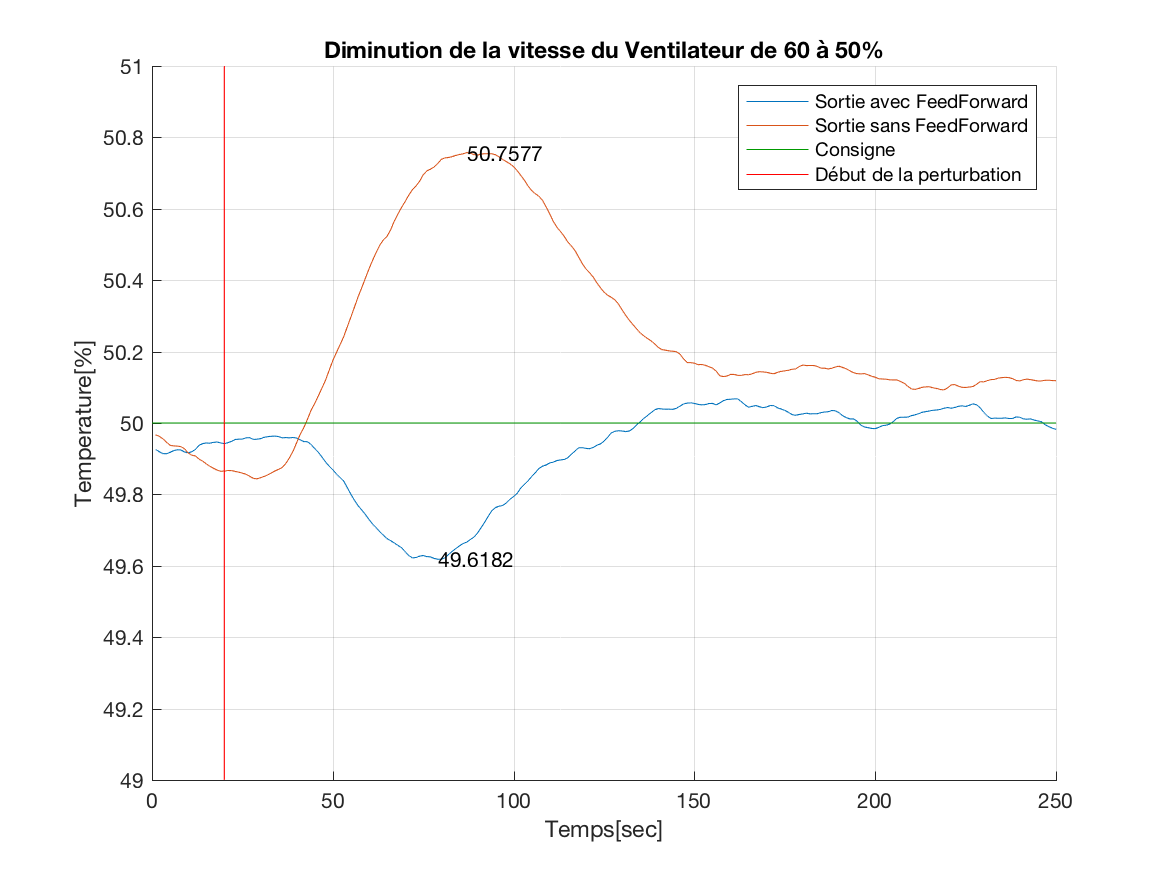
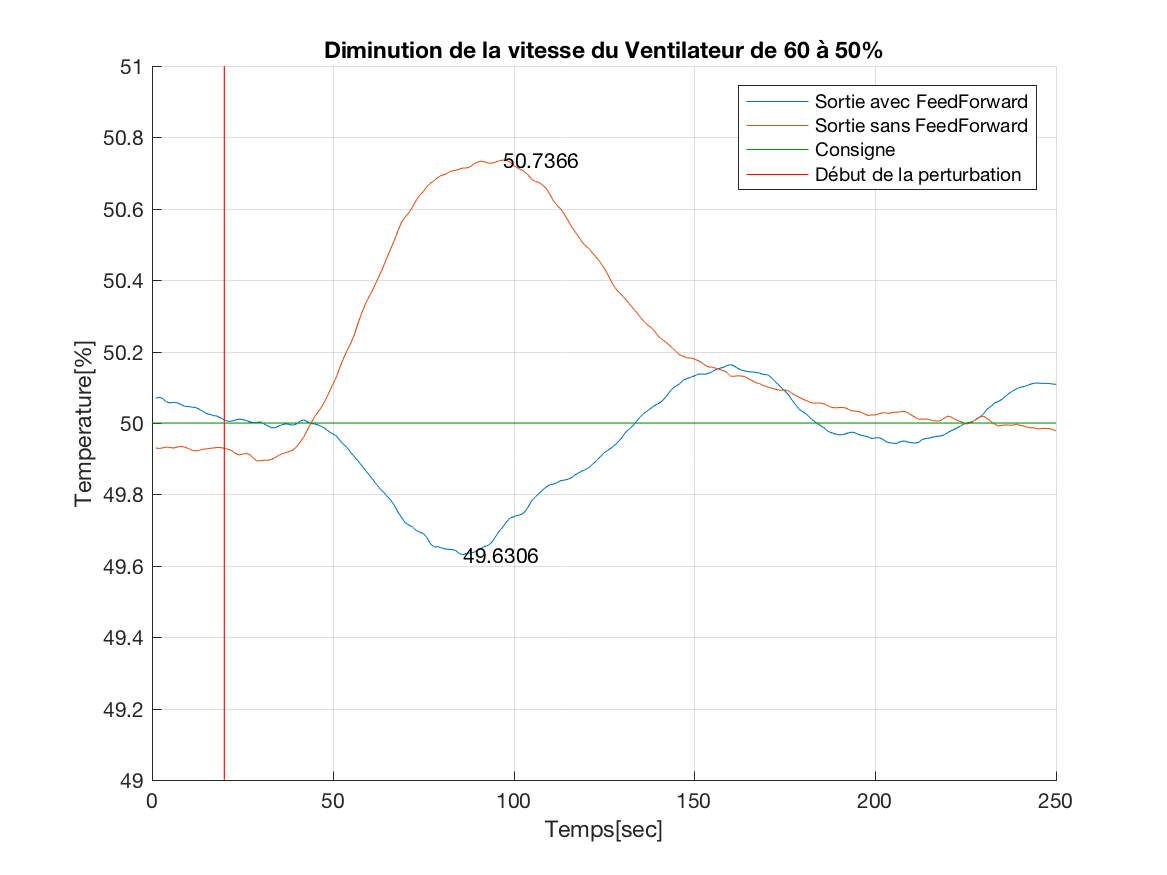
final commit

diff --git a/Seance_3.tex b/Seance_3.tex
@@ -127,9 +127,16 @@ R_{2} &\rightarrow \frac{-k_{1}}{k_{2}} = gain\\
 \item Le temps mort du régulateur 2 doit être plus faible que le temps de la perturbation sur la sortie (on doit calculer et agir sur la sortie au minimum en même temps que la perturbation si on veut la rendre invisible)
 \item On doit pouvoir mesurer la perturbation
 \end{itemize}
-
+\newpage
 \subsection{Résultats expérimentaux}
 \fig{FeedForword/Rising.png}{0.6}{Réponse du système à une variation du ventilateur de 50\% à 60\%}
 \fig{FeedForword/Falling.png}{0.6}{Réponse du système à une variation du ventilateur de 60\% à 50\%}
-
+\fig{FeedForword/RisingU.png}{0.6}{Consigne en sortie du régulateur en réponse à une variation du ventilateur de 50\% à 60\%}
+\fig{FeedForword/FallingU.png}{0.6}{Consigne en sortie du régulateur en réponse à  variation du ventilateur de 50\% à 60\%}
 \subsection{Observation}
+\subsubsection{Comparaison de la sortie du système}
+On remarque sur les figures \ref{FeedForword/Rising.png} et  \ref{FeedForword/Falling.png} que les manières de contre-carrer la perturbation sont inversées. En effet la méthode avec feed-forward anticipe la perturbation. Pour exemple, lorsque la vitesse du ventilateur diminue on s'attend à voir la température augmentée (tracé orange de la figure  \ref{FeedForword/Falling.png} ) cependant le feed-forward va compensé en diminue la température. 
+On notera aussi que la variation de température est plus faibles lorsque l'on utilise le feed-forward, Tout comme le temps de stabilisation autour du point de consigne.
+
+\subsubsection{Comparaison de la sortie du régulateur}
+les figures \ref{FeedForword/RisingU.png} et \ref{FeedForword/FallingU.png} nous montrent le comportement du système en sortie du régulateur. L'observation principale que l'on peut faire est que sans feed-forward le système ne commencera à réagir que lorsque la perturbation aura un effet sur la sortie. A l'inverse on remarque qu'après seulement 4 secondes, le régulateur à déjà réagis à la perturbation alors que celle ci n'a pas encore d'impact sur la sortie.

diff --git a/Rapport.tex b/Rapport.tex
@@ -15,6 +15,9 @@
 \def\•subtitle{no title}
 \newcommand	{\subtitle}[1]{\def\•subtitle{#1}}
 
+
+
+
 \title{Laboratoire de régulation}
 \subtitle{
 	Rapport des séances\\[0.5cm]
@@ -31,8 +34,6 @@ Mathieu David\\\\
 William de Decker\\\\
 Tom Selleslagh\\\\
 } 
-
-
 
 \begin{document}
 \begin{titlepage} 
